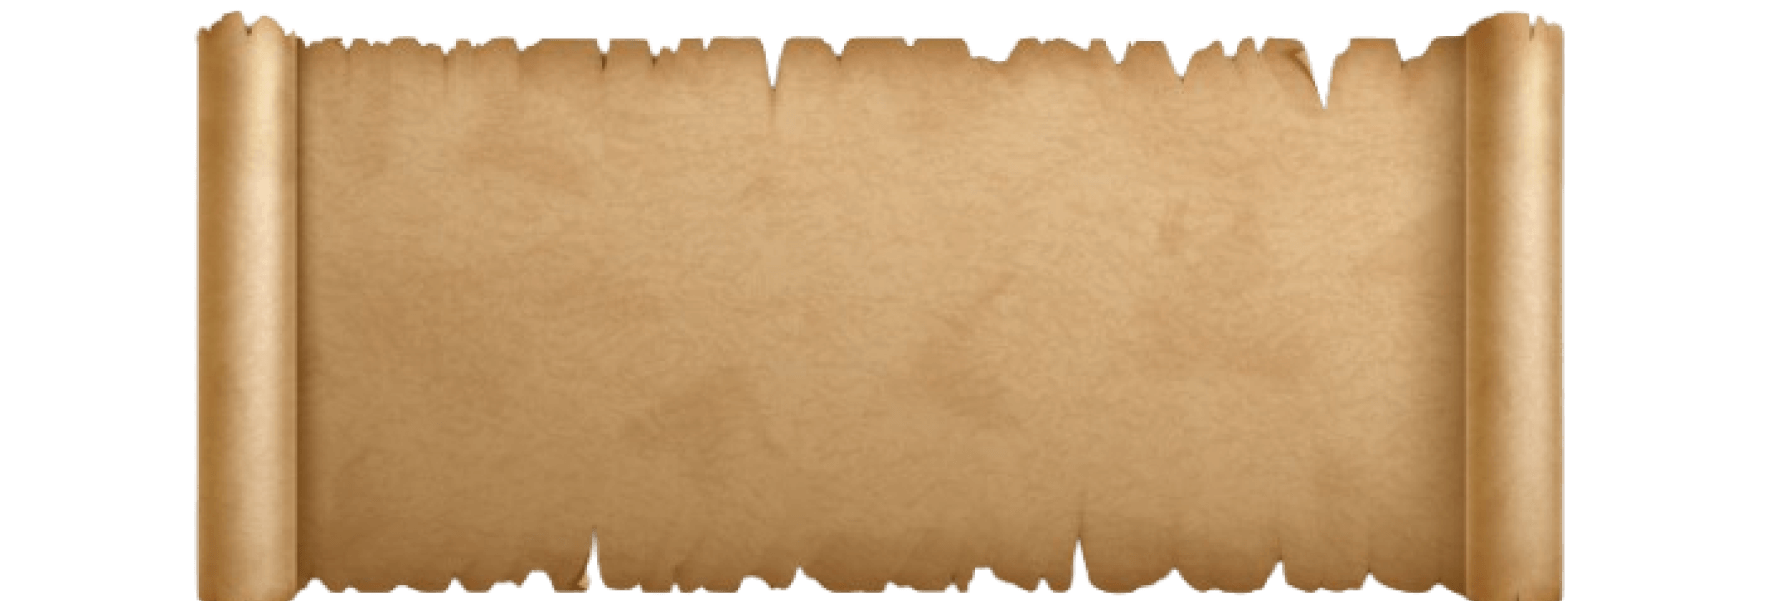
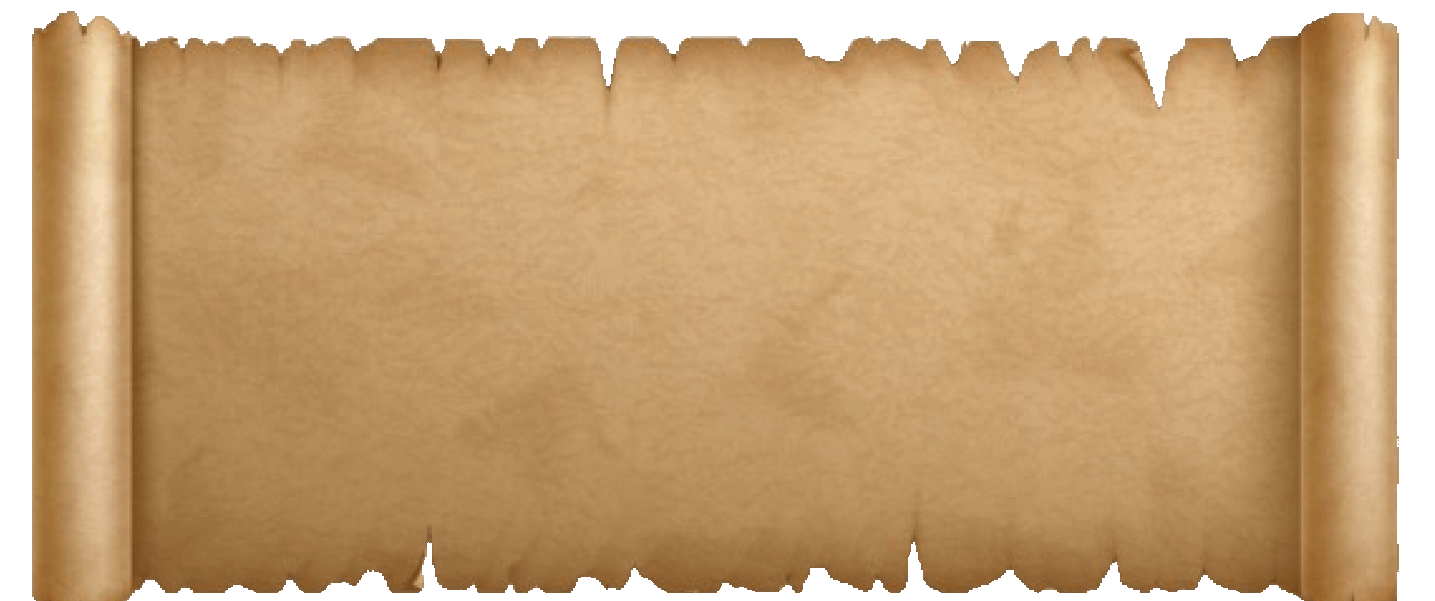
Fixed footer background.

Changed region(s): [[0.0, 0.0, 0.9812, 1.0]]

diff --git a/frontend/cafe-front/components/Footer.jsx b/frontend/cafe-front/components/Footer.jsx
@@ -1,4 +1,3 @@
-import React from 'react';
 import { useTranslation } from 'react-i18next';
 import logo from "../assets/logo1.png";
 import './Style/FooterStyles.css';
@@ -9,64 +8,66 @@ export default function Footer() {
     const { t } = useTranslation();
     return (
         <div className='footerImg'>
-            <div className='footer'>
-                <div className='top'>
-                    <a className="footer-logo" href="/"><img src={logo} width={80} height={80} alt="logo" /></a>
-                    <p>{t('footer.Created by Varia Students')}</p>
-                    <div className='social-links'>
-                        <a href='https://discord.gg/wwQGdKVrma'>
-                            <i className='fa-brands fa-discord'></i>
-                        </a>
-                        <a href='https://www.facebook.com/CafeBoardgameHelsinki'>
-                            <i className='fa-brands fa-facebook-f'></i>
-                        </a>
-                        <a href='https://www.instagram.com/cafeboardgamehki/'>
-                            <i className='fa-brands fa-instagram'></i>
-                        </a>
-                        <a href='https://youtu.be/h6R1rXko73c?si=dq0aTHtJ5yvjcpUg'>
-                            <i className='fa-brands fa-youtube'></i>
-                        </a>
-                        <a href='https://www.tiktok.com/@cafeboardgame?_t=8gVHgyYj0C1&_r=1'>
-                            <i className='fa-brands fa-tiktok'></i>
-                        </a>
+            <div className='footerBg'>
+                <div className='footer'>
+                    <div className='top'>
+                        <a className="footer-logo" href="/"><img src={logo} width={80} height={80} alt="logo" /></a>
+                        <p>{t('footer.Created by Varia Students')}</p>
+                        <div className='social-links'>
+                            <a href='https://discord.gg/wwQGdKVrma'>
+                                <i className='fa-brands fa-discord'></i>
+                            </a>
+                            <a href='https://www.facebook.com/CafeBoardgameHelsinki'>
+                                <i className='fa-brands fa-facebook-f'></i>
+                            </a>
+                            <a href='https://www.instagram.com/cafeboardgamehki/'>
+                                <i className='fa-brands fa-instagram'></i>
+                            </a>
+                            <a href='https://youtu.be/h6R1rXko73c?si=dq0aTHtJ5yvjcpUg'>
+                                <i className='fa-brands fa-youtube'></i>
+                            </a>
+                            <a href='https://www.tiktok.com/@cafeboardgame?_t=8gVHgyYj0C1&_r=1'>
+                                <i className='fa-brands fa-tiktok'></i>
+                            </a>
+                        </div>
                     </div>
-                </div>
-                <div className='bottom'>
-                    <div>
-                        <h4>{t('footer.About')}</h4> 
-                        {/* //Change to Links */}
-                        <ul className="text-md leading-loose">
-                        <li><a href='/'>{t('footer.About Us')}</a></li>
-                        <li><a href='/'>{t('footer.Careers')}</a></li>
-                        <li><a href='/'>{t('footer.Partners')}</a></li>
-                        <li><a href='/'>{t('footer.Privacy Policy')}</a></li>
-                        </ul>
-                    </div>
-                    <div>
-                        <h4>Opening Hours</h4>
-                        <ul className="text-md leading-loose">
-                            <li>Monday - Thursday 16:00 - 24:00 </li>
-                            <li>Friday 16:00 - 02:00</li>
-                            <li>Saturday 14:00 - 02:00 </li>
-                            <li>Sunday Closed</li>
-                        </ul>
-                    </div>
-                    <div>
-                        <h4>{t('footer.Contact')}</h4> 
-                        {/* //Contact us */}
-                        <ul className="text-md leading-loose">
-                            <li>+358 50 566 2613</li>
-                            <li>info@cafeboardgame.fi</li>
-                            <li>Eerikinkatu 14</li>
-                            <li>00100 Helsinki</li>
-                        </ul>
-                    </div>
-                    <div>
-                        <h4>Awards</h4>
-                        <div className="awards">
-                            <div><img src={Award1} height={50} alt="Award1" /></div>
-                            <br></br>
-                            <div><img src={Award2} height={50} alt="Award2" /></div>
+                    <div className='bottom'>
+                        <div>
+                            <h4>{t('footer.About')}</h4> 
+                            {/* //Change to Links */}
+                            <ul className="text-md leading-loose">
+                            <li><a href='/'>{t('footer.About Us')}</a></li>
+                            <li><a href='/'>{t('footer.Careers')}</a></li>
+                            <li><a href='/'>{t('footer.Partners')}</a></li>
+                            <li><a href='/'>{t('footer.Privacy Policy')}</a></li>
+                            </ul>
+                        </div>
+                        <div>
+                            <h4>Opening Hours</h4>
+                            <ul className="text-md leading-loose">
+                                <li>Monday - Thursday 16:00 - 24:00 </li>
+                                <li>Friday 16:00 - 02:00</li>
+                                <li>Saturday 14:00 - 02:00 </li>
+                                <li>Sunday Closed</li>
+                            </ul>
+                        </div>
+                        <div>
+                            <h4>{t('footer.Contact')}</h4> 
+                            {/* //Contact us */}
+                            <ul className="text-md leading-loose">
+                                <li>+358 50 566 2613</li>
+                                <li>info@cafeboardgame.fi</li>
+                                <li>Eerikinkatu 14</li>
+                                <li>00100 Helsinki</li>
+                            </ul>
+                        </div>
+                        <div>
+                            <h4>Awards</h4>
+                            <div className="awards">
+                                <div><img src={Award1} height={50} alt="Award1" /></div>
+                                <br></br>
+                                <div><img src={Award2} height={50} alt="Award2" /></div>
+                            </div>
                         </div>
                     </div>
                 </div>

diff --git a/frontend/cafe-front/components/Style/FooterStyles.css b/frontend/cafe-front/components/Style/FooterStyles.css
@@ -1,20 +1,25 @@
 .footerImg {
 	display: flex;
-	background-color: #F3F4F6;
+	background-color: #F3F4F6;	
+	justify-content: center;
+}
+
+.footerBg {
+	display: flex;
+	background-image: url('../../assets/footer-background.png');
+	background-size: 100%;
+	background-repeat: no-repeat;
+	margin: 0;
+	background-position: center;
+	align-items: center;
 }
 
 .footer {
 	display: flex;
 	flex-direction: column;
-	background-image: url('../../assets/footer-background.png');
-	background-size: cover;
-	background-repeat: no-repeat;
-	margin: 0 auto;
-	background-position: center;
 	flex-wrap: wrap;
 	justify-content: center;
-	padding: 8%;
-	margin-bottom: 1rem;
+	margin: 14rem;
 }
 
 .footer-logo {

diff --git a/frontend/cafe-front/routes/Bookings.jsx b/frontend/cafe-front/routes/Bookings.jsx
@@ -1,9 +1,8 @@
-import React from 'react'
 import heroImage from '../assets/hero_booking.png';
 import Hero from '../components/Hero';
 import Navbar from '../components/Navbar';
 import Footer from '../components/Footer';
-import floorplan from '../assets/floorplan.png'
+/* import floorplan from '../assets/floorplan.png' */
 import BookingForm from '../components/BookingForm';
 
 export default function Bookings() {

diff --git a/frontend/cafe-front/routes/Home.jsx b/frontend/cafe-front/routes/Home.jsx
@@ -1,4 +1,3 @@
-import React from 'react';
 import heroImage from '../assets/hero_home.jpg';
 import Hero from '../components/Hero';
 import Navbar from '../components/Navbar';
